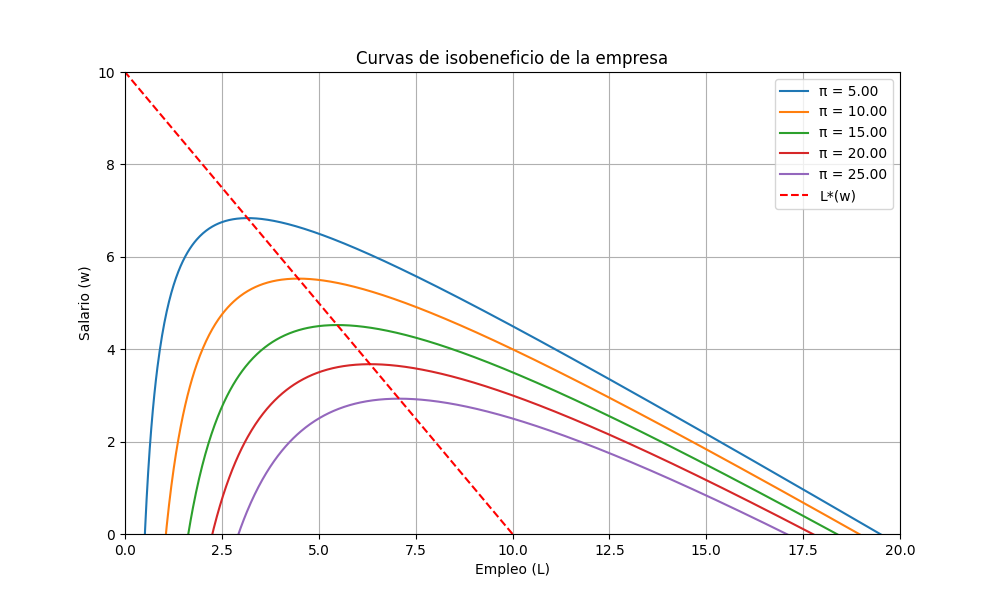
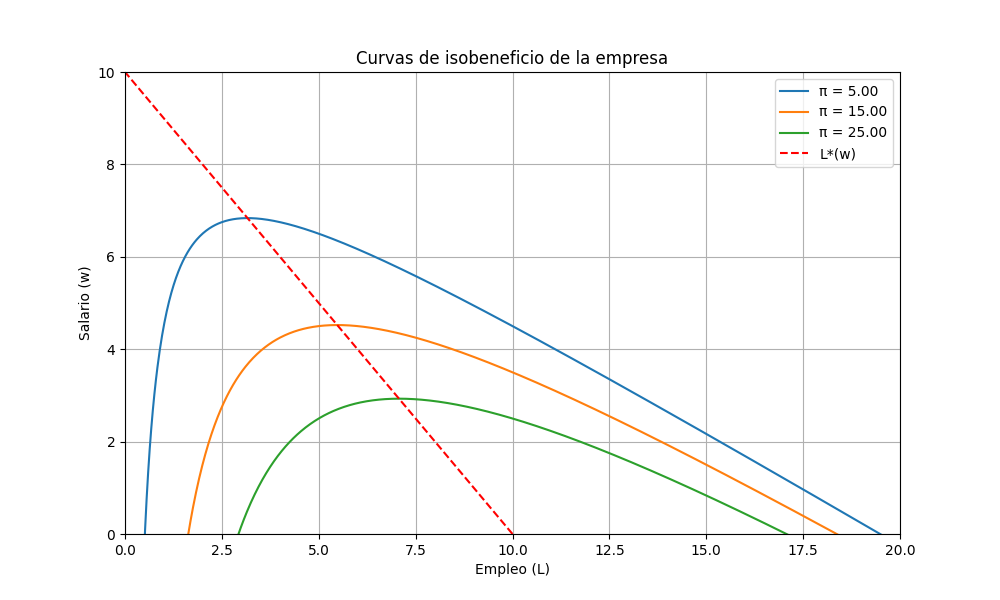
agregacion de nuevos codigos para OI

diff --git a/Defectuosos.py b/Defectuosos.py
@@ -1,0 +1,100 @@
+import matplotlib.pyplot as plt
+import numpy as np
+import networkx as nx
+
+# Datos del problema
+proveedores = ['A', 'B', 'C']
+porcentajes_compra = [0.5, 0.3, 0.2]
+porcentajes_defectuosos = [0.05, 0.07, 0.10]
+
+# Cálculo de probabilidades
+P_D = sum(p_c * p_d for p_c, p_d in zip(porcentajes_compra, porcentajes_defectuosos))
+print(P_D)
+P_A_given_D = (porcentajes_compra[0] * porcentajes_defectuosos[0]) / P_D
+print(P_A_given_D)
+# Cálculo para todos los proveedores
+P_given_D = [(p_c * p_d) / P_D for p_c, p_d in zip(porcentajes_compra, porcentajes_defectuosos)]
+print(P_given_D)
+# Crear el gráfico
+fig, ax = plt.subplots(figsize=(10, 6))
+
+# Graficar barras
+bars = ax.bar(proveedores, P_given_D, color=['red', 'green', 'blue'])
+
+# Personalizar el gráfico
+ax.set_ylabel('Probabilidad')
+ax.set_title('Probabilidad de que un insumo defectuoso provenga de cada proveedor')
+ax.set_ylim(0, 1)  # Establecer el límite del eje y de 0 a 1
+
+# Añadir etiquetas de porcentaje en las barras
+for bar in bars:
+    height = bar.get_height()
+    ax.text(bar.get_x() + bar.get_width()/2., height,
+            f'{height:.2%}',
+            ha='center', va='bottom')
+
+# Añadir una leyenda con los porcentajes originales
+legend_labels = [f'{p}: {pc:.0%} compra, {pd:.0%} defectuosos' for p, pc, pd in zip(proveedores, porcentajes_compra, porcentajes_defectuosos)]
+ax.legend(bars, legend_labels, title='Proveedores', loc='upper right')
+
+# Mostrar el resultado numérico
+print(f"La probabilidad de que el insumo defectuoso se haya comprado del proveedor A es: {P_A_given_D:.2%}")
+
+# Guardar y mostrar el gráfico
+plt.tight_layout()
+plt.savefig('probabilidad_proveedores.png')
+plt.show()
+
+def create_decision_tree():
+    G = nx.DiGraph()
+    # Nodo raíz
+    G.add_node("Inicio", pos=(0, 0))
+    # Niveles del árbol
+    y_levels = [0, -1, -2]
+    x_positions = [-1, 0, 1]
+    for i, (proveedor, p_compra, p_defectuoso) in enumerate(
+            zip(proveedores, porcentajes_compra, porcentajes_defectuosos)):
+        # Nodo del proveedor
+        nodo_proveedor = f"Proveedor {proveedor}"
+        G.add_node(nodo_proveedor, pos=(x_positions[i], y_levels[1]))
+        G.add_edge("Inicio", nodo_proveedor, label=f"{p_compra:.0%}")
+
+        # Nodos de resultado (defectuoso o no)
+        nodo_defectuoso = f"{proveedor} Defectuoso"
+        nodo_no_defectuoso = f"{proveedor} No Defectuoso"
+
+        G.add_node(nodo_defectuoso, pos=(x_positions[i] - 0.3, y_levels[2]))
+        G.add_node(nodo_no_defectuoso, pos=(x_positions[i] + 0.3, y_levels[2]))
+
+        G.add_edge(nodo_proveedor, nodo_defectuoso, label=f"{p_defectuoso:.0%}")
+        G.add_edge(nodo_proveedor, nodo_no_defectuoso, label=f"{1 - p_defectuoso:.0%}")
+
+    return G
+
+# Crear el árbol
+G = create_decision_tree()
+
+# Configurar el gráfico
+pos = nx.get_node_attributes(G, 'pos')
+plt.figure(figsize=(12, 8))
+nx.draw(G, pos, with_labels=True, node_color='lightblue',
+        node_size=3000, font_size=8, font_weight='bold')
+
+# Añadir etiquetas a las aristas
+edge_labels = nx.get_edge_attributes(G, 'label')
+nx.draw_networkx_edge_labels(G, pos, edge_labels=edge_labels)
+
+# Personalizar el gráfico
+plt.title("Árbol de Decisión: Selección de Proveedor y Probabilidad de Defecto")
+plt.axis('off')
+
+# Guardar y mostrar el gráfico
+plt.tight_layout()
+plt.savefig('arbol_decision_proveedores.png', dpi=300, bbox_inches='tight')
+plt.show()
+
+# Calcular y mostrar la probabilidad condicional
+P_D = sum(p_c * p_d for p_c, p_d in zip([0.5, 0.3, 0.2], [0.05, 0.07, 0.10]))
+P_A_given_D = (0.5 * 0.05) / P_D
+
+print(f"La probabilidad de que el insumo defectuoso se haya comprado del proveedor A es: {P_A_given_D:.2%}")

diff --git a/graphs.py b/graphs.py
@@ -34,11 +34,10 @@ def plot_optimal_employment(w_max=10, L_max=10):
 
     interact(update, w=widgets.FloatSlider(min=0, max=w_max, step=0.1, value=5))
 
-
 plot_optimal_employment()
 
 
-def plot_iso_profit_curves(w_max=10, L_max=10):
+def plot_iso_profit_curves(w_max=3000, L_max=300):
     L = np.linspace(0, L_max, 100)
 
     fig, ax = plt.subplots(figsize=(10, 6))
@@ -48,7 +47,7 @@ def plot_iso_profit_curves(w_max=10, L_max=10):
 
         for i in range(num_curves):
             w = np.linspace(0, w_max, 100)
-            L_opt = (10 - w) / 1
+            L_opt = (3850 - w) / 5
             ax.plot(L_opt, w, label=f'Curva {i + 1}')
 
         ax.set_xlabel('Empleo (L)')
@@ -58,12 +57,11 @@ def plot_iso_profit_curves(w_max=10, L_max=10):
         ax.grid(True)
 
     interact(update, num_curves=widgets.IntSlider(min=1, max=5, step=1, value=3))
-
+# tener los puntos de interaccion
 
 plot_iso_profit_curves()
 
-
-def plot_inefficient_equilibrium(w_max=10, L_max=10):
+def plot_inefficient_equilibrium(w_max=3000, L_max=270):
     L = np.linspace(0, L_max, 100)
 
     fig, ax = plt.subplots(figsize=(10, 6))
@@ -71,17 +69,17 @@ def plot_inefficient_equilibrium(w_max=10, L_max=10):
     def update(w_star):
         ax.clear()
 
-        L_star = (10 - w_star) / 1
+        L_star = (3850 - w_star) / 5
 
         # Función de mejor respuesta de la empresa
         w = np.linspace(0, w_max, 100)
-        L_opt = (10 - w) / 1
+        L_opt = (3850 - w) / 5
         ax.plot(L_opt, w, label='L*(w)')
 
         # Curva de beneficio de la empresa
         w_curve = w_star + (L - L_star) ** 2
         ax.plot(L, w_curve, label='Curva de beneficio')
-
+        # maximizar L*w
         # Punto de equilibrio
         ax.scatter(L_star, w_star, color='red', s=100, zorder=5)
         ax.annotate(f'(L*(w*), w*)=({L_star:.2f}, {w_star:.2f})',
@@ -91,7 +89,7 @@ def plot_inefficient_equilibrium(w_max=10, L_max=10):
         idx = (L > L_star) & (w_curve < w_star)
         ax.fill_between(L[idx], w_curve[idx], w_star, alpha=0.3, color='gray')
 
-        ax.set_xlabel('Empleo (L)')
+        ax.set_xlabel('Empleados (L)')
         ax.set_ylabel('Salario (w)')
         ax.set_title('Ineficiencia del equilibrio en la negociación')
         ax.legend()
@@ -103,7 +101,7 @@ def plot_inefficient_equilibrium(w_max=10, L_max=10):
 plot_inefficient_equilibrium()
 
 
-def save_optimal_employment_graph(filename='optimal_employment.png', w=5, w_max=10, L_max=10):
+def save_optimal_employment_graph(filename='optimal_employment.png', w=5, w_max=10, L_max=300):
     L = np.linspace(0, L_max, 100)
     R = revenue_function(L)
 
@@ -112,7 +110,7 @@ def save_optimal_employment_graph(filename='optimal_employment.png', w=5, w_max=
     ax.plot(L, R, label='R(L)')
     ax.plot(L, w * L, label=f'wL (w={w:.2f})')
 
-    L_opt = (10 - w) / 1  # Derivada de R(L) igualada a w
+    L_opt = (3850 - w) / 5  # Derivada de R(L) igualada a w
     R_opt = revenue_function(L_opt)
 
     ax.scatter(L_opt, R_opt, color='red', s=100, zorder=5)
@@ -130,7 +128,7 @@ def save_optimal_employment_graph(filename='optimal_employment.png', w=5, w_max=
     print(f"Gráfico guardado como {filename}")
 
 
-def save_iso_profit_curves(filename='custom_iso_profit_curves.png', num_curves=5, w_max=10, L_max=20):
+def save_iso_profit_curves(filename='custom_iso_profit_curves.png', num_curves=3, w_max=10, L_max=20):
     L = np.linspace(0.1, L_max, 1000)  # Evitamos L=0 para evitar división por cero
 
     fig, ax = plt.subplots(figsize=(10, 6))

diff --git a/graphextensive.py b/graphextensive.py
@@ -1,0 +1,79 @@
+import networkx as nx
+import matplotlib.pyplot as plt
+import numpy as np
+
+
+def calculate_payoffs(w, L):
+    """Calcula los pagos para el sindicato y la empresa."""
+    U = w * L  # Utilidad del sindicato
+    pi = 3850 * L - 2.5 * L ** 2 - w * L  # Beneficio de la empresa (ajustado para números más grandes)
+    return U, pi
+
+
+def optimal_L(w):
+    """Calcula el L óptimo para un w dado."""
+    print(f"  w = {w:.0f}")
+    return (3850 - w) / 5  # Ajustado para la nueva función de beneficio
+
+
+def create_extensive_form_game():
+    G = nx.DiGraph()
+
+    # Nodo raíz (decisión del sindicato)
+    G.add_node("Root", pos=(0, 0))
+
+    wages = [2700, 3000]  # Demandas salariales
+
+    for i, w in enumerate(wages):
+        # Nodos de decisión de la empresa
+        node_w = f"w={w}"
+        G.add_node(node_w, pos=(-0.5 + i, -.5))
+        G.add_edge("Root", node_w, label=f"w={w}")
+
+        # Calcular L óptimo
+        L_opt = optimal_L(w)
+
+        # Nodos de resultado
+        L_values = [L_opt * .9, L_opt * 1.1]  # Dos opciones alrededor del óptimo
+        for j, L in enumerate(L_values):
+            node_result = f"w={w},L={L:.0f}"
+            G.add_node(node_result, pos=(-0.75 + i + j * .5, -1))
+            G.add_edge(node_w, node_result, label=f"L={L:.0f}")
+
+            # Calcular pagos
+            U, pi = calculate_payoffs(w, L)
+            G.nodes[node_result]['label'] = f"U={U / 1e6:.2f}M\n\nπ={pi / 1e6:.2f}M"
+
+    return G
+
+
+# Crear el gráfico
+G = create_extensive_form_game()
+
+# Dibujar el gráfico
+pos = nx.get_node_attributes(G, 'pos')
+plt.figure(figsize=(12, 8))
+nx.draw(G, pos, with_labels=False, node_size=3000, node_color="lightblue")
+nx.draw_networkx_labels(G, pos, {node: node for node in G.nodes() if node != "Root"})
+nx.draw_networkx_labels(G, pos, {node: G.nodes[node]['label'] for node in G.nodes() if 'label' in G.nodes[node]})
+
+edge_labels = nx.get_edge_attributes(G, 'label')
+nx.draw_networkx_edge_labels(G, pos, edge_labels=edge_labels)
+
+plt.title("Juego de Negociación en Forma Extensiva")
+plt.axis('off')
+plt.tight_layout()
+
+# Guardar el gráfico
+plt.savefig("extensive_form_game.png", dpi=600, bbox_inches='tight')
+print("Gráfico guardado como extensive_form_game.png")
+
+# Mostrar los cálculos
+print("\nCálculos realizados:")
+for w in [2700, 3000]:
+    L_opt = optimal_L(w)
+    print(f"\nPara w = {w}:")
+    print(f"  L óptimo = {L_opt:.0f}")
+    for L in [L_opt * .9, L_opt * 1.1]:
+        U, pi = calculate_payoffs(w, L)
+        print(f"  Si L = {L:.0f}:\n\n   U = {U / 1e6:.2f} M\n\n\n   π = {pi / 1e6:.2f} M")

diff --git a/JuegosSubastas.py b/JuegosSubastas.py
@@ -1,0 +1,49 @@
+import random
+class Subasta:
+    def __init__(self, n_postores, valor_real):
+        self.n_postores = n_postores
+        self.valor_real = valor_real
+        self.postores = [Postor(i) for i in range(n_postores)]
+
+class Postor:
+    def __init__(self, id):
+        self.id = id
+        self.valoracion = 0
+        self.oferta = 0
+
+    def hacer_oferta(self, tipo_info):
+        if tipo_info == "perfecta":
+            self.oferta = self.valoracion
+        elif tipo_info == "imperfecta":
+            self.oferta = random.uniform(0.8 * self.valoracion, 1.2 * self.valoracion)
+        else:  # incompleta
+            self.oferta = random.uniform(0.5 * self.valoracion, 1.5 * self.valoracion)
+def simular_subasta(tipo_info):
+    valor_real = random.uniform(100, 1000)
+    subasta = Subasta(5, valor_real)
+
+    for postor in subasta.postores:
+        if tipo_info == "perfecta":
+            postor.valoracion = valor_real
+        elif tipo_info == "imperfecta":
+            postor.valoracion = random.uniform(0.8 * valor_real, 1.2 * valor_real)
+        else:  # incompleta
+            postor.valoracion = random.uniform(0.5 * valor_real, 1.5 * valor_real)
+
+        postor.hacer_oferta(tipo_info)
+
+    ganador = max(subasta.postores, key=lambda x: x.oferta)
+    return subasta, ganador
+def main():
+    for tipo_info in ["perfecta", "imperfecta", "incompleta"]:
+        print(f"\nSimulación de subasta con información {tipo_info}:")
+        subasta, ganador = simular_subasta(tipo_info)
+        print(f"Valor real del item: {subasta.valor_real:.2f}")
+        print(f"Ganador: Postor {ganador.id}")
+        print(f"Oferta ganadora: {ganador.oferta:.2f}")
+        print("Todas las ofertas:")
+        for postor in subasta.postores:
+            print(f"  Postor {postor.id}: valoración = {postor.valoracion:.2f}, oferta = {postor.oferta:.2f}")
+
+if __name__ == "__main__":
+    main()

diff --git a/graphextensive2.py b/graphextensive2.py
@@ -1,0 +1,47 @@
+import networkx as nx
+import matplotlib.pyplot as plt
+
+def create_extensive_form_game():
+    G = nx.DiGraph()
+
+    # Nodo raíz (decisión del sindicato)
+    G.add_node("Root", pos=(0, 0))
+
+    wages = [2700, 3000]  # Posibles demandas salariales
+
+    for i, w in enumerate(wages):
+        # Nodos de decisión de la empresa
+        node_w = f"w={w}"
+        G.add_node(node_w, pos=(-1 + i, -.5))
+        G.add_edge("Root", node_w, label=f"w={w}")
+
+        # Calcular L óptimo
+        L_opt = (10 - w) / 1
+
+        # Nodos de resultado
+        node_result = f"w={w},L={L_opt:.2f}"
+        G.add_node(node_result, pos=(-1 + i, -1))
+        G.add_edge(node_w, node_result, label=f"L={L_opt:.2f}")
+
+    return G
+
+# Crear el gráfico
+G = create_extensive_form_game()
+
+# Dibujar el gráfico
+pos = nx.get_node_attributes(G, 'pos')
+plt.figure(figsize=(8, 6))
+nx.draw(G, pos, with_labels=False, node_size=3000, node_color="lightblue")
+nx.draw_networkx_labels(G, pos, {node: node for node in G.nodes() if node != "Root"})
+nx.draw_networkx_labels(G, pos, {node: G.nodes[node]['label'] for node in G.nodes() if 'label' in G.nodes[node]})
+
+edge_labels = nx.get_edge_attributes(G, 'label')
+nx.draw_networkx_edge_labels(G, pos, edge_labels=edge_labels)
+
+plt.title("Juego de Negociación en Forma Extensiva")
+plt.axis('off')
+plt.tight_layout()
+
+# Guardar el gráfico
+plt.savefig("extensive_form_game2.png", dpi=300, bbox_inches='tight')
+print("Gráfico guardado como extensive_form_game.png")
